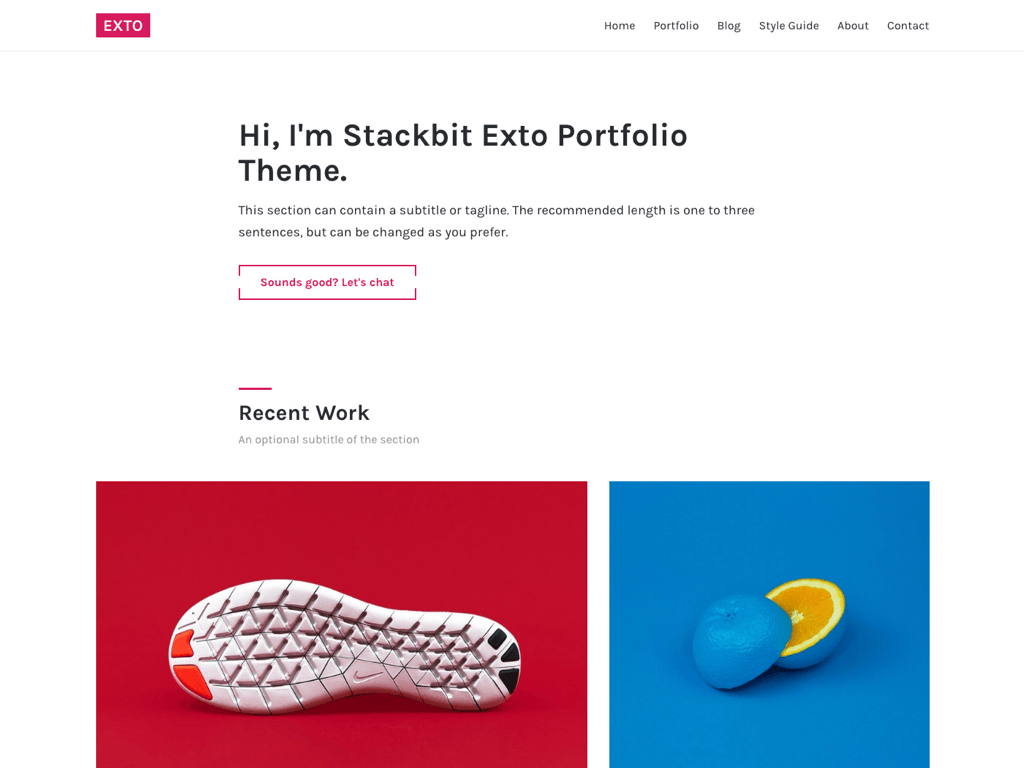
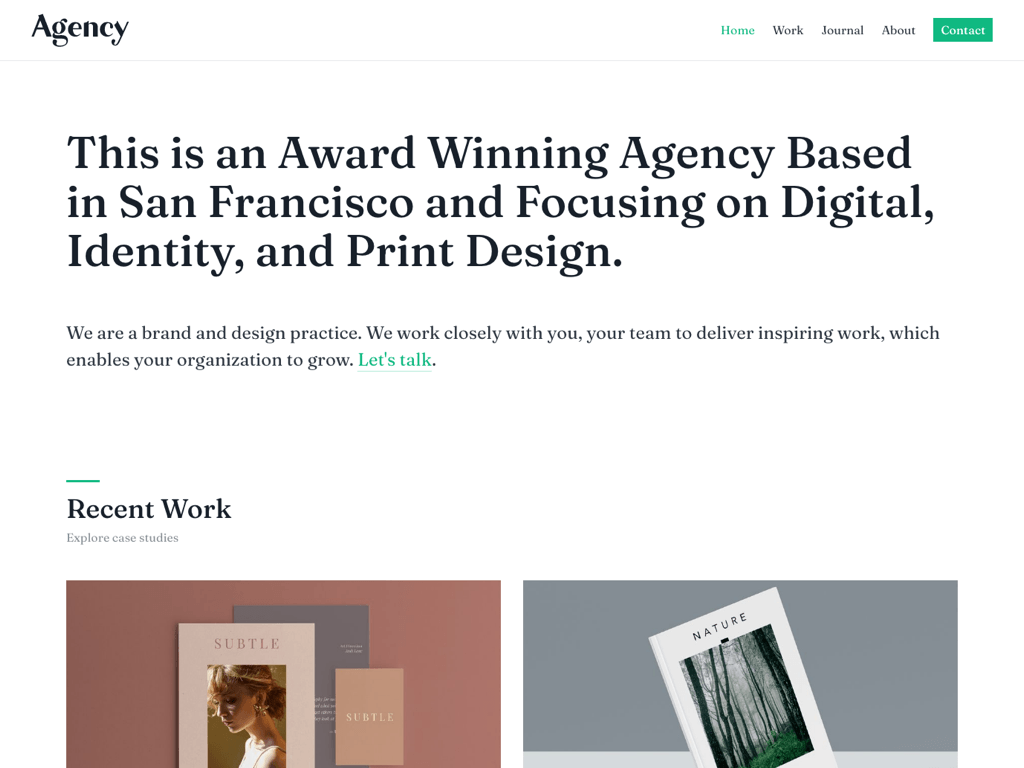
updated images and README.md

diff --git a/README.md b/README.md
@@ -1,10 +1,10 @@
-# Exto
+# Agency
 
-A portfolio theme with a blog for Stackbit. [Live Demo](https://themes.stackbit.com/demos/exto)
+A portfolio theme with a blog for Stackbit. [Live Demo](https://themes.stackbit.com/demos/agency)
 
 Click the button below to use this theme in Gatsby, Hugo or Jekyll via the Stackbit site builder:
 
-[![Create with Stackbit](https://assets.stackbit.com/badge/create-with-stackbit.svg)](https://app.stackbit.com/create?theme=https://github.com/stackbithq/stackbit-theme-exto)
+[![Create with Stackbit](https://assets.stackbit.com/badge/create-with-stackbit.svg)](https://app.stackbit.com/create?theme=https://github.com/stackbit/stackbit-theme-exto)
 
 ### About Stackbit
 
@@ -12,16 +12,16 @@ Click the button below to use this theme in Gatsby, Hugo or Jekyll via the Stack
 
 ## Working with This Theme
 
-This theme is written in Unibit. Themes written in Unibit can be converted to other static sites generators (SSG) such as Gatsby, Hugo, Jekyll and Next.js using [Stackbit Site Builder](https://app.stackbit.com/create?theme=https://github.com/stackbithq/stackbit-theme-exto). The site builder will generate the SSG-specific version of this theme and push it to your own GitHub repository. You are free to use and modify the generated source however you wish.
+This theme is written in Unibit. Themes written in Unibit can be converted to other static sites generators (SSG) such as Gatsby, Hugo, Jekyll and Next.js using [Stackbit Site Builder](https://app.stackbit.com/create?theme=https://github.com/stackbit/stackbit-theme-agency). The site builder will generate the SSG-specific version of this theme and push it to your own GitHub repository. You are free to use and modify the generated source however you wish.
 
 <img src="https://assets.stackbit.com/images/unibit-diagram.png" width="600" />
 
 ### Editing This Theme
 
-While we recommend using the [site builder](https://app.stackbit.com/create?theme=https://github.com/stackbithq/stackbit-theme-exto) to generate a version of the theme for any of the supported static site generators, you can develop locally using the Unibit CLI.  For details on how to install and use Unibit, visit the [documentation](https://docs.stackbit.com/site-builder/unibit/).
+While we recommend using the [site builder](https://app.stackbit.com/create?theme=https://github.com/stackbit/stackbit-theme-agency) to generate a version of the theme for any of the supported static site generators, you can develop locally using the Unibit CLI.  For details on how to install and use Unibit, visit the [documentation](https://docs.stackbit.com/site-builder/unibit/).
 
 ### Develop Using CodeSandbox
 
 You can also develop this theme in the browser using Unibit via CodeSandbox.
 
-[Fork in CodeSandbox](https://codesandbox.io/s/github/stackbithq/stackbit-theme-exto)
+[Fork in CodeSandbox](https://codesandbox.io/s/github/stackbit/stackbit-theme-agency)
